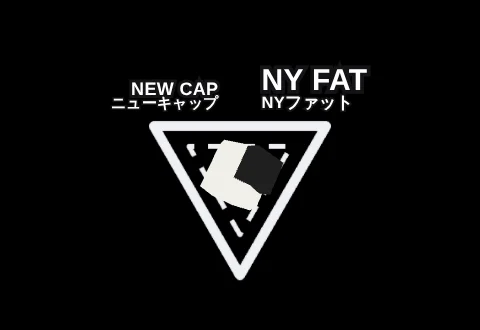
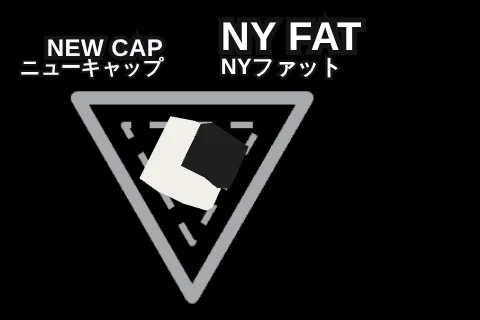
site: Painting's parts on one spacing scale and the fact cards' columns, the caps' rings at 70% (TASK-387)
Claude-Session: https://claude.ai/code/session_016s8qrhkeuc1yBzTk7V5NH9

Changed region(s): [[0.0312, 0.0625, 0.7812, 0.9688]]

diff --git a/index.html b/index.html
@@ -194,12 +194,12 @@
             <p>Six caps to choose from, each with its own feel, from fine details to big fills. You start with BANANA and find the rest around the roof.</p>
             <!-- Every cap, its picture its pickup in the game (scripts/cap-pictures.mjs; scripts/seo.test.mjs checks they're all here). -->
             <dl class="tools caps">
-              <div><dt><img src="/about/caps/needle.webp" width="320" height="220" alt="" loading="lazy" />NEEDLE</dt><dd>Ultra-fine lines for sharp details and highlights</dd></div>
-              <div><dt><img src="/about/caps/skinny.webp" width="320" height="220" alt="" loading="lazy" />SKINNY</dt><dd>Clean tags and crisp outlines</dd></div>
-              <div><dt><img src="/about/caps/standard.webp" width="320" height="220" alt="" loading="lazy" />BANANA</dt><dd>A versatile all-rounder for everyday painting</dd></div>
-              <div><dt><img src="/about/caps/soft.webp" width="320" height="220" alt="" loading="lazy" />BLUE DOT</dt><dd>Soft edges for smooth blends and fades</dd></div>
-              <div><dt><img src="/about/caps/fat.webp" width="320" height="220" alt="" loading="lazy" />NY FAT</dt><dd>Wide lines for throw-ups and quick fills</dd></div>
-              <div><dt><img src="/about/caps/spray.webp" width="320" height="220" alt="" loading="lazy" />ASTRO FAT</dt><dd>Massive coverage for big fills and backgrounds</dd></div>
+              <div><dt><img src="/about/caps/needle.webp" width="240" height="160" alt="" loading="lazy" />NEEDLE</dt><dd>Ultra-fine lines for sharp details and highlights</dd></div>
+              <div><dt><img src="/about/caps/skinny.webp" width="240" height="160" alt="" loading="lazy" />SKINNY</dt><dd>Clean tags and crisp outlines</dd></div>
+              <div><dt><img src="/about/caps/standard.webp" width="240" height="160" alt="" loading="lazy" />BANANA</dt><dd>A versatile all-rounder for everyday painting</dd></div>
+              <div><dt><img src="/about/caps/soft.webp" width="240" height="160" alt="" loading="lazy" />BLUE DOT</dt><dd>Soft edges for smooth blends and fades</dd></div>
+              <div><dt><img src="/about/caps/fat.webp" width="240" height="160" alt="" loading="lazy" />NY FAT</dt><dd>Wide lines for throw-ups and quick fills</dd></div>
+              <div><dt><img src="/about/caps/spray.webp" width="240" height="160" alt="" loading="lazy" />ASTRO FAT</dt><dd>Massive coverage for big fills and backgrounds</dd></div>
             </dl>
             <h3>Tools</h3>
             <p>You start with a spray can and black paint. Twelve more colors, the caps, and four extra tools are hidden around the roof. Paint never runs out.</p>

diff --git a/src/boot.css b/src/boot.css
@@ -461,14 +461,10 @@ html:not(.game) .about .hero {
 .about .facts,
 .about .tools {
   display: grid;
-  grid-template-columns: repeat(auto-fill, minmax(180px, 1fr));
-  gap: 24px 32px;
+  grid-template-columns: repeat(3, 1fr);
+  gap: 32px;
   font-size: 14px;
   line-height: 1.5;
-}
-.about .facts {
-  grid-template-columns: repeat(3, 1fr);
-  gap: 28px 32px;
 }
 /* A fact: its label, the fact in short, a line under it. */
 .about .facts dd {
@@ -483,27 +479,21 @@ html:not(.game) .about .hero {
   line-height: 1.25;
   color: var(--paper);
 }
-.about .tools {
-  grid-template-columns: repeat(5, 1fr);
-  gap: 24px;
-}
 /* The caps: each picture over its name. */
-.about .tools.caps {
-  grid-template-columns: repeat(3, 1fr);
-}
 .about .tools.caps dt {
   flex-direction: column;
   align-items: flex-start;
+  gap: 8px;
   letter-spacing: 0.04em;
 }
 .about .caps img {
-  width: 100%;
+  max-width: 100%;
   height: auto;
 }
 .about :is(.facts, .tools) > div {
   display: flex;
   flex-direction: column;
-  gap: 4px;
+  gap: 8px;
 }
 .about .facts dt {
   font-size: 11px;
@@ -526,7 +516,7 @@ html:not(.game) .about .hero {
 .about section {
   display: flex;
   flex-direction: column;
-  gap: 14px;
+  gap: 16px;
   margin-top: 56px;
   padding-top: 40px;
   border-top: 1px solid var(--hair);
@@ -580,7 +570,16 @@ html:not(.game) .about .hero {
   max-width: 640px;
   font-size: 15px;
 }
-.about :is(.prose, #painting) h3 {
+/* Painting's parts: 48 px over a title, 8 under it, 24 down to a part's grid. */
+.about #painting h3 {
+  margin: 32px 0 -8px;
+  font: 400 26px / 1.1 var(--display);
+  letter-spacing: 0.02em;
+}
+.about #painting :is(dl, ul) {
+  margin-top: 8px;
+}
+.about .prose h3 {
   margin: 18px 0 -6px;
   font: 400 26px / 1.1 var(--display);
   letter-spacing: 0.02em;
@@ -589,7 +588,7 @@ html:not(.game) .about .hero {
 .about ul.cols {
   display: grid;
   grid-template-columns: repeat(auto-fill, minmax(300px, 1fr));
-  gap: 12px 40px;
+  gap: 16px 32px;
 }
 .about li {
   position: relative;
@@ -788,8 +787,9 @@ html:not(.game) .about .hero {
   .about .facts {
     grid-template-columns: repeat(2, 1fr);
   }
-  .about :is(.tools, .tools.caps) {
+  .about .tools {
     grid-template-columns: repeat(2, 1fr);
+    gap: 24px;
   }
   .about .faq-group {
     grid-template-columns: 1fr;

diff --git a/docs/site.md b/docs/site.md
@@ -32,7 +32,8 @@ what's served: `docs/deploy.md`; the release steps that touch the page: `docs/re
   the owner's word to players under P.S.; its "legal walls" is the owner's own, saying the game isn't one), then the
   rest. Painting has what the can does, then Caps and Tools under their own titles: every cap with its picture
   (`public/about/caps/*.webp`: its pickup with its tag and a light ring, no glow, by `npm run cap-pictures`, when a cap or the pickups' look changes), every
-  tool with the server list's icon (`src/net/tool-icons.ts`), copied as markup. `scripts/seo.test.mjs` checks both.
+  tool with the server list's icon (`src/net/tool-icons.ts`), copied as markup. `scripts/seo.test.mjs` checks both. Caps and Tools sit on the fact cards' three columns; spacing
+  in these sections is 8, 16, 24, 32 or 48 px.
 - The hero's loop (`public/about/roof.mp4`, `roof-portrait.mp4`) starts after the page and its fonts have loaded
   (`src/boot.ts`), so it never competes with them. Filmed from the title view on a real GPU, 1920x1080 and 1080x1920 (the
   canvas only, so no menu). Encode as H.264 High, Level 4.0 or lower (the Level 6.2 files didn't play on an iPhone), 30 fps,
